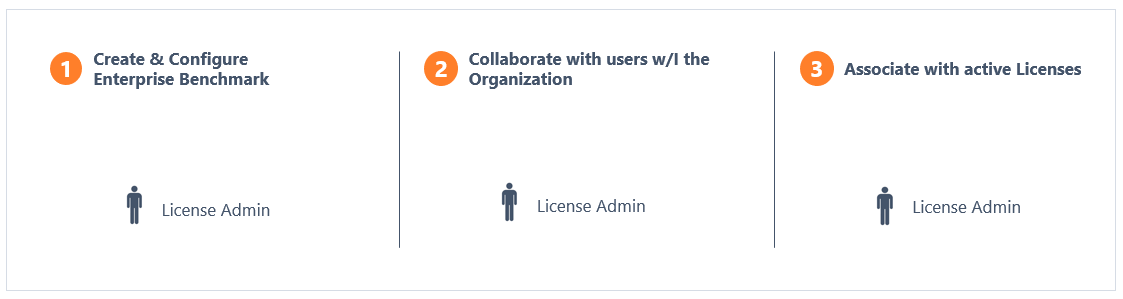
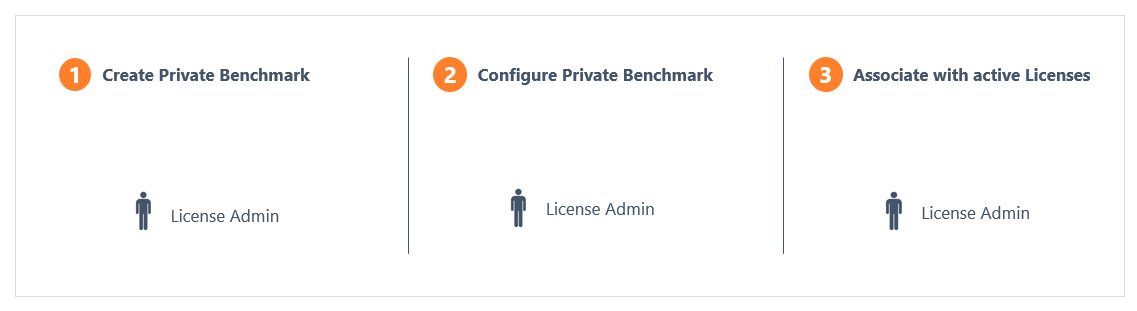
Task 13466 : Updated private benchmark as per feedback

diff --git a/docs/administratorGuide/privateBenchmark.md b/docs/administratorGuide/privateBenchmark.md
@@ -1,5 +1,5 @@
-Private Benchmark
-====================
+Private Compliance Benchmark
+============================
 
 Overview
 --------
@@ -219,6 +219,10 @@ Update Private Benchmark
 
 Private benchmark can be updated for basic details as well as configurations.
 
+### Update Private Benchmark configuration 
+
+Please follow  [steps under Step 2](.././administratorGuide/privateBenchmark/#backup-reader-role)
+
 ### Update Private Benchmark basic details
 
 1. Navigate to **Private Benchmark** page 
@@ -233,9 +237,7 @@ Private benchmark can be updated for basic details as well as configurations.
 
 
 
-### Update Private Benchmark configuration 
 
-Please follow  [steps under Step 2](.././administratorGuide/#step-2-configure-private-benchmark)
 
 
 

diff --git a/docs/userGuide/scanStatusAPI.md b/docs/userGuide/scanStatusAPI.md
@@ -1,6 +1,6 @@
 Cloudneeti offers scan API to get scan status in Cloudneeti for provided cloud account.
 
-        get https://<CLOUDNEETI API DOMAIN>/api/scan/status?jobId=<JOB ID>
+        get https://<CLOUDNEETI API DOMAIN>/api/compliance/scan/status?jobId=<JOB ID>
 
 
 | Environment	| Values for CLOUDNEETI API DOMAIN |
